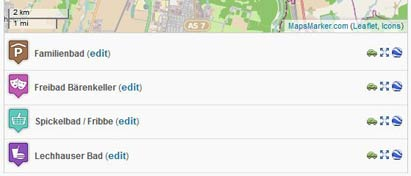
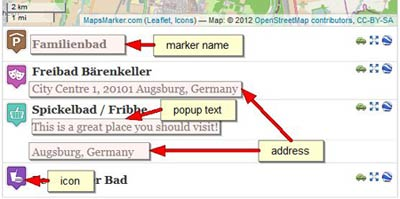
add Hungarian translation; finetune address feature;

diff --git a/inc/class-leaflet-options.php b/inc/class-leaflet-options.php
@@ -804,7 +804,7 @@ class Class_leaflet_options {
 			'section' => 'mapdefaults-section4',
 			'std'     => '', 
 			'title'   => '',
-			'desc'    => __( 'Will be used when creating a new marker. All values can be changed afterwards on each marker.', 'lmm') . '<br/><br/><img src="'. LEAFLET_PLUGIN_URL .'inc/img/help-marker-defaults.jpg" />',
+			'desc'    => __( 'Will be used when creating a new marker. All values can be changed afterwards on each marker.', 'lmm') . '<br/>' . __('The following screenshot was taken with the advanced editor enabled:','lmm') . '<br/><br/><img src="'. LEAFLET_PLUGIN_URL .'inc/img/help-marker-defaults.jpg" />',
 			'type'    => 'helptext'
 		);
 		$this->settings['defaults_marker_lat'] = array(
@@ -1611,7 +1611,7 @@ class Class_leaflet_options {
 			'section' => 'mapdefaults-section8',
 			'std'     => '', 
 			'title'   => '',
-			'desc'    => __( 'Will be used when creating a new layer. All values can be changed afterwards on each layer.', 'lmm') . '<br/><br/><img src="'. LEAFLET_PLUGIN_URL .'inc/img/help-layer-defaults.jpg" />',
+			'desc'    => __( 'Will be used when creating a new layer. All values can be changed afterwards on each layer.', 'lmm') . '<br/>' . __('The following screenshot was taken with the advanced editor enabled:','lmm') . '<br/><br/><img src="'. LEAFLET_PLUGIN_URL .'inc/img/help-layer-defaults.jpg" />',
 			'type'    => 'helptext'
 		);
 		$this->settings['defaults_layer_lat'] = array(
@@ -1952,6 +1952,15 @@ class Class_leaflet_options {
 			'type'    => 'checkbox',
 			'std'     => 1 
 		);
+		$this->settings['defaults_layer_listmarkers_show_address'] = array(
+			'version' => '3.0',
+			'pane'    => 'mapdefaults',
+			'section' => 'mapdefaults-section9',
+			'title'    => '',
+			'desc'    => __('Address','lmm'),
+			'type'    => 'checkbox',
+			'std'     => 1 
+		);		
 		$this->settings['defaults_layer_listmarkers_order_by'] = array(
 			'version' => '1.5',
 			'pane'    => 'mapdefaults',

diff --git a/leaflet-geojson.php b/leaflet-geojson.php
@@ -103,11 +103,10 @@ if (isset($_GET['layer'])) {
 		} else if ($full == 1) {
 			echo '"address":"'.$maddress.'",'.PHP_EOL;
 		}	
-
+		$mpopuptext = stripslashes(str_replace('"', '\'', preg_replace('/(\015\012)|(\015)|(\012)/','<br/>',$marker['mpopuptext'])));
 		if ($lmm_options['directions_popuptext_panel'] == 'yes') {
 
 			$mpopuptext_css = ($marker['mpopuptext'] != NULL) ? "border-top:1px solid #f0f0e7;padding-top:5px;margin-top:5px;" : "";
-			$mpopuptext = stripslashes(str_replace('"', '\'', preg_replace('/(\015\012)|(\015)|(\012)/','<br/>',$marker['mpopuptext'])));
 			$mpopuptext = $mpopuptext . "<div style='" . $mpopuptext_css . "'>" . $maddress . " (";
 		
 			if ($lmm_options['directions_provider'] == 'googlemaps') { 
@@ -124,9 +123,7 @@ if (isset($_GET['layer'])) {
 				$mpopuptext = $mpopuptext . "<a href='http://openrouteservice.org/index.php?end=" . $marker['mlon'] . "," . $marker['mlat'] . "&pref=" . $lmm_options[ 'directions_ors_route_preferences' ] . "&lang=" . $lmm_options[ 'directions_ors_language' ] . "&noMotorways=" . $lmm_options[ 'directions_ors_no_motorways' ] . "&noTollways=" . $lmm_options[ 'directions_ors_no_tollways' ] . "' target='_blank' title='" . esc_attr__('Get directions','lmm') . "'>" . __('Directions','lmm') . "</a>"; 
 			}
 			$mpopuptext = $mpopuptext . ')</div>';
-		} else {
-			$mpopuptext = stripslashes(str_replace('"', '\'', preg_replace('/(\015\012)|(\015)|(\012)/','<br/>',$marker['mpopuptext'])));
-		}
+		} 
 		echo '"text":"' . $mpopuptext . '"';
 		if ($full == 1) {
 			echo ','.PHP_EOL.'"zoom":"' . $marker['mzoom'] . '",'.PHP_EOL;

diff --git a/leaflet-layer.php b/leaflet-layer.php
@@ -362,9 +362,8 @@ echo '<p><a class=\'button-secondary\' href=\'' . LEAFLET_WP_ADMIN_URL . 'admin.
 					<?php _e('or paste coordinates here','lmm') ?> -  
 					<?php _e('latitude','lmm') ?>: <input style="width: 100px;" type="text" id="layerviewlat" name="layerviewlat" value="<?php echo $layerviewlat; ?>" />
 					<?php _e('longitude','lmm') ?>: <input style="width: 100px;" type="text" id="layerviewlon" name="layerviewlon" value="<?php echo $layerviewlon; ?>" />
-					<br>
-					<?php _e('or set layer center by clicking on the preview map','lmm') ?>:</small></p>
 					</div>
+					</p>
 				</td>
 			</tr>
 			<tr>
@@ -500,8 +499,12 @@ echo '<p><a class=\'button-secondary\' href=\'' . LEAFLET_WP_ADMIN_URL . 'admin.
 					}
 					if ( (isset($lmm_options[ 'defaults_layer_listmarkers_show_popuptext' ]) == TRUE ) && ($lmm_options[ 'defaults_layer_listmarkers_show_popuptext' ] == 1 ) ) {
 						echo '<br/>' . stripslashes($row['mpopuptext']);
-						if ($lmm_options['directions_popuptext_panel'] == 'yes') {
+					}
+					if ( (isset($lmm_options[ 'defaults_layer_listmarkers_show_address' ]) == TRUE ) && ($lmm_options[ 'defaults_layer_listmarkers_show_address' ] == 1 ) ) {
+						if ( $row['mpopuptext'] == NULL ) {
 							echo stripslashes(htmlspecialchars($row['maddress']));
+						} else if ( ($row['mpopuptext'] != NULL) && ($row['maddress'] != NULL) ) {
+							echo '<br/><div style="border-top:1px solid #f0f0e7;padding-top:5px;margin-top:5px;">' . stripslashes(htmlspecialchars($row['maddress'])) . '</div>';
 						}
 					}
 					echo '</td></tr>';

diff --git a/inc/showmap.php b/inc/showmap.php
@@ -365,10 +365,14 @@
         }
         if ( (isset($lmm_options[ 'defaults_layer_listmarkers_show_popuptext' ]) == TRUE ) && ($lmm_options[ 'defaults_layer_listmarkers_show_popuptext' ] == 1 ) ) {
             $lmm_out .= '<br/>' . stripslashes($row['mpopuptext']);
-			if ($lmm_options['directions_popuptext_panel'] == 'yes') {
-					$lmm_out .= stripslashes(htmlspecialchars($row['maddress']));
-			}
         }
+		if ( (isset($lmm_options[ 'defaults_layer_listmarkers_show_address' ]) == TRUE ) && ($lmm_options[ 'defaults_layer_listmarkers_show_address' ] == 1 ) ) {
+			if ( $row['mpopuptext'] == NULL ) {
+				$lmm_out .= stripslashes(htmlspecialchars($row['maddress']));
+			} else if ( ($row['mpopuptext'] != NULL) && ($row['maddress'] != NULL) ) {
+				$lmm_out .= '<br/><div style="border-top:1px solid #f0f0e7;padding-top:5px;margin-top:5px;">' . stripslashes(htmlspecialchars($row['maddress'])) . '</div>';
+			}
+		}
         $lmm_out .= '</td></tr>';
     } //info: end foreach
     $lmm_out .= '</table></div>';

diff --git a/leaflet-marker.php b/leaflet-marker.php
@@ -286,9 +286,8 @@ echo '<p><a class=\'button-secondary\' href=\'' . LEAFLET_WP_ADMIN_URL . 'admin.
 					<?php _e('or paste coordinates here','lmm') ?> -  
 					<?php _e('latitude','lmm') ?>: <input style="width: 100px;" type="text" id="lat" name="lat" value="<?php echo $lat; ?>" />
 					<?php _e('longitude','lmm') ?>: <input style="width: 100px;" type="text" id="lon" name="lon" value="<?php echo $lon; ?>" />
-					<br>
-					<?php _e('or set marker coordinates by clicking on the preview map','lmm') ?>:</small></p>
 					</div>
+					</p>
 				</td>
 			</tr>
 			<tr>
